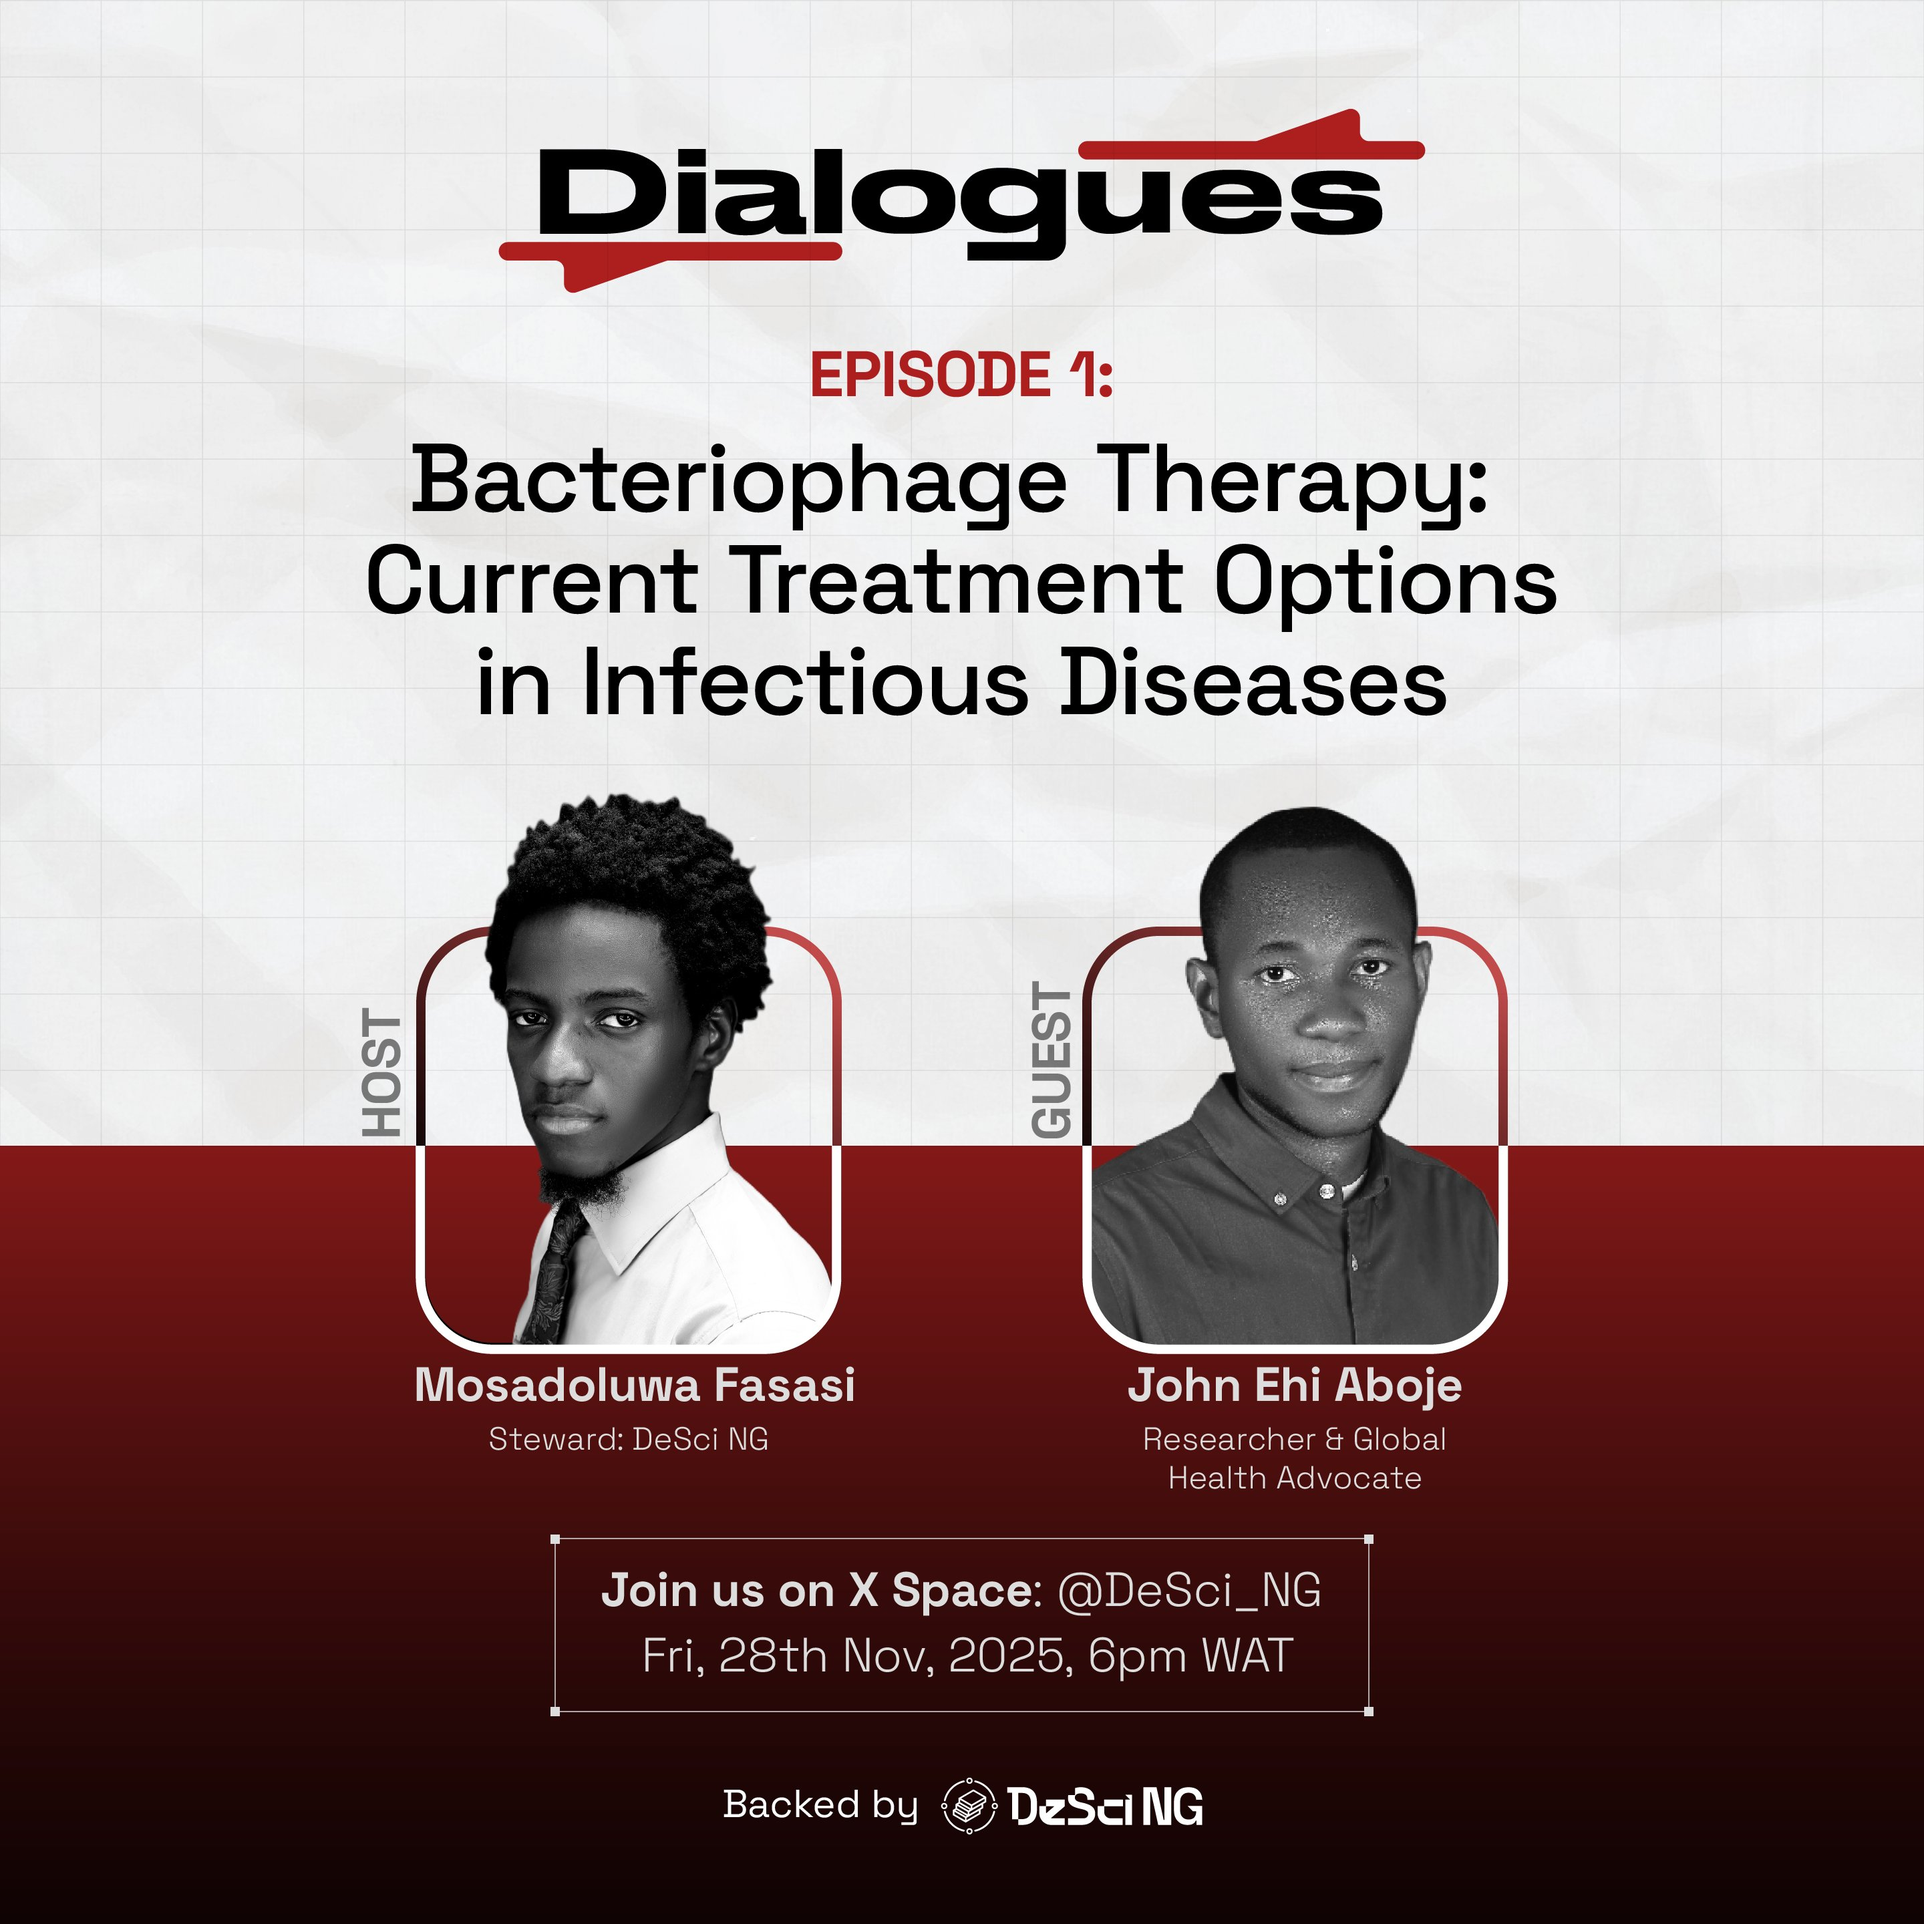
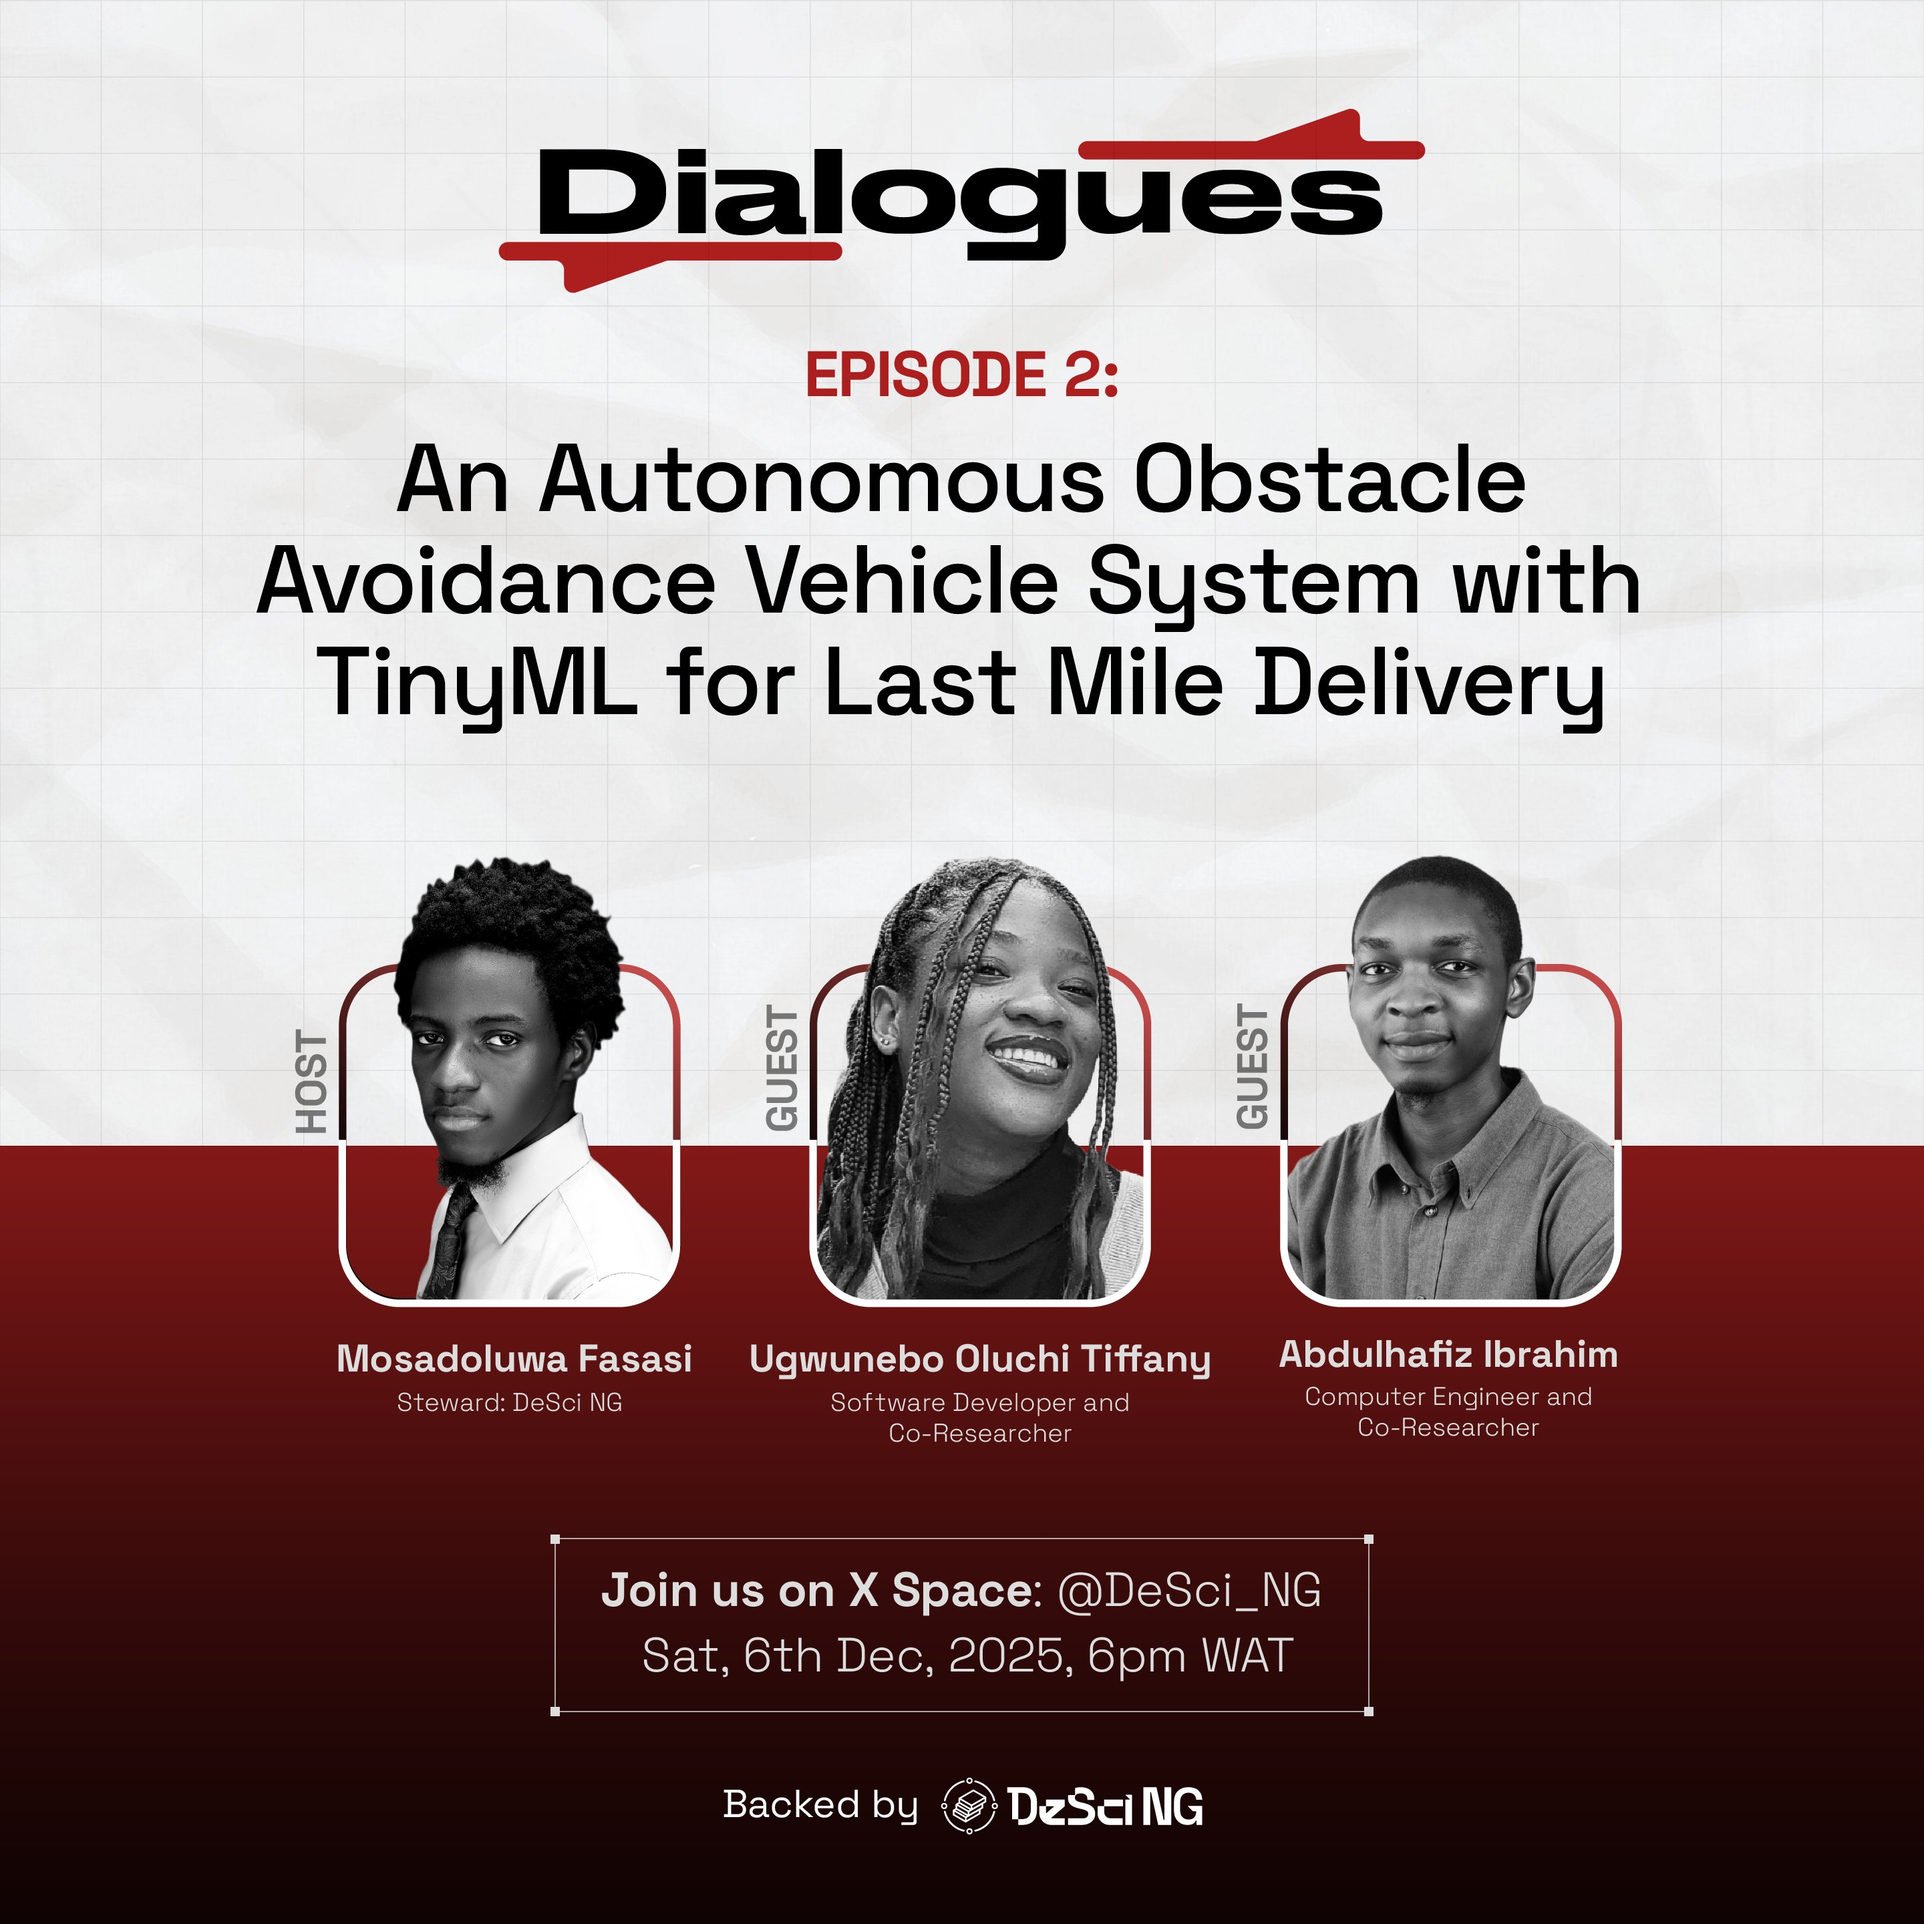
updates dialogues

Changed region(s): [[0.1562, 0.4062, 0.8438, 0.7812], [0.125, 0.1875, 0.875, 0.4062], [0.3438, 0.8438, 0.4688, 0.875]]

diff --git a/app/page.tsx b/app/page.tsx
@@ -19,7 +19,7 @@ export const metadata = {
 const initiatives = [
   {
     title: "Dialogues",
-    description: "A new series where researchers share what they are working on, the questions shaping their studies, and how it concerns to you. Join us next Friday for our first episode.",
+    description: "A new series where researchers share what they are working on, the questions shaping their studies, and how it concerns to you. Join us on Saturday for our second episode.",
     imageUrl: "/assets/dialogues1.jpeg",
     link: "https://x.com/DeSci_NG/status/1991852009495081458",
   },
